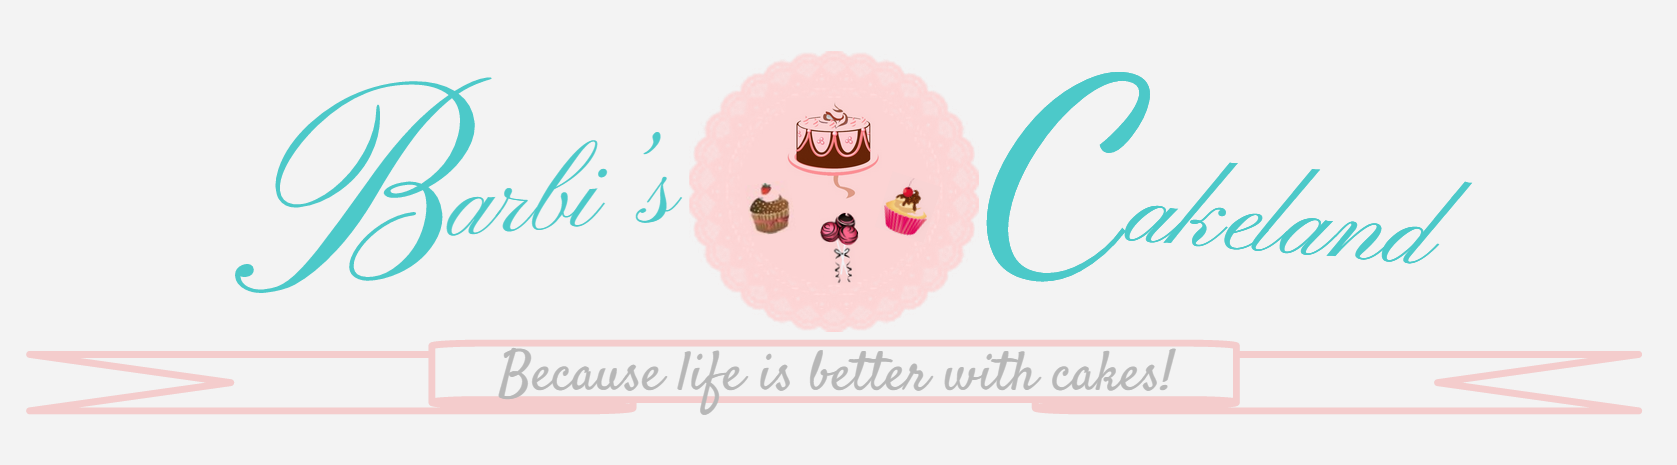
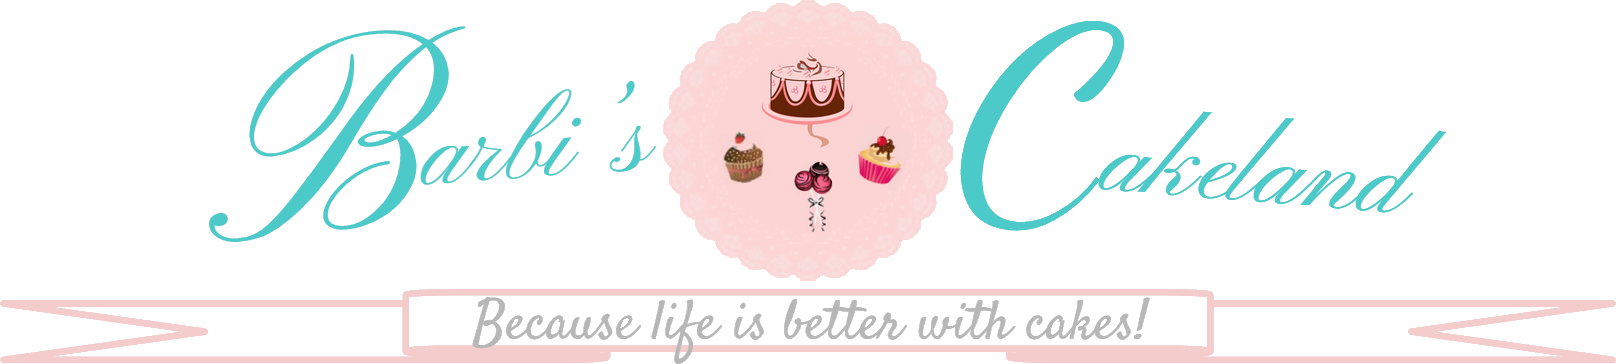
Transparent image and better background

Changed region(s): [[0.0, 0.0, 1.0, 0.9973], [0.7426, 0.3022, 0.7735, 0.3324], [0.2785, 0.0604, 0.3094, 0.0907]]

diff --git a/css/creative.css b/css/creative.css
@@ -177,7 +177,6 @@ header {
     width: 100%;
     min-height: auto;
     text-align: center;
-    color: #4CC9C9;
     background-color: #F3F3F3;
 }
 
@@ -206,7 +205,8 @@ header .header-content .header-content-inner p {
     margin-bottom: 50px;
     font-size: 16px;
     font-weight: 300;
-    color: #ee4b28;
+    color: #4CC9C9;
+    font-weight: bold;
 }
 
 @media(min-width:768px) {
@@ -215,8 +215,6 @@ header .header-content .header-content-inner p {
     }
 
     header .header-content {
-        position: absolute;
-        padding: 0 50px;
     }
 
     header .header-content .header-content-inner {
@@ -379,9 +377,9 @@ fieldset[disabled] .btn-default.active {
 }
 
 .btn-primary {
-    border-color: #f05f40;
-    color: #fff;
-    background-color: #f05f40;
+    border-color: #FCD4D4;
+    color: #4CC9C9;
+    background-color: #FCD4D4;
     -webkit-transition: all .35s;
     -moz-transition: all .35s;
     transition: all .35s;
